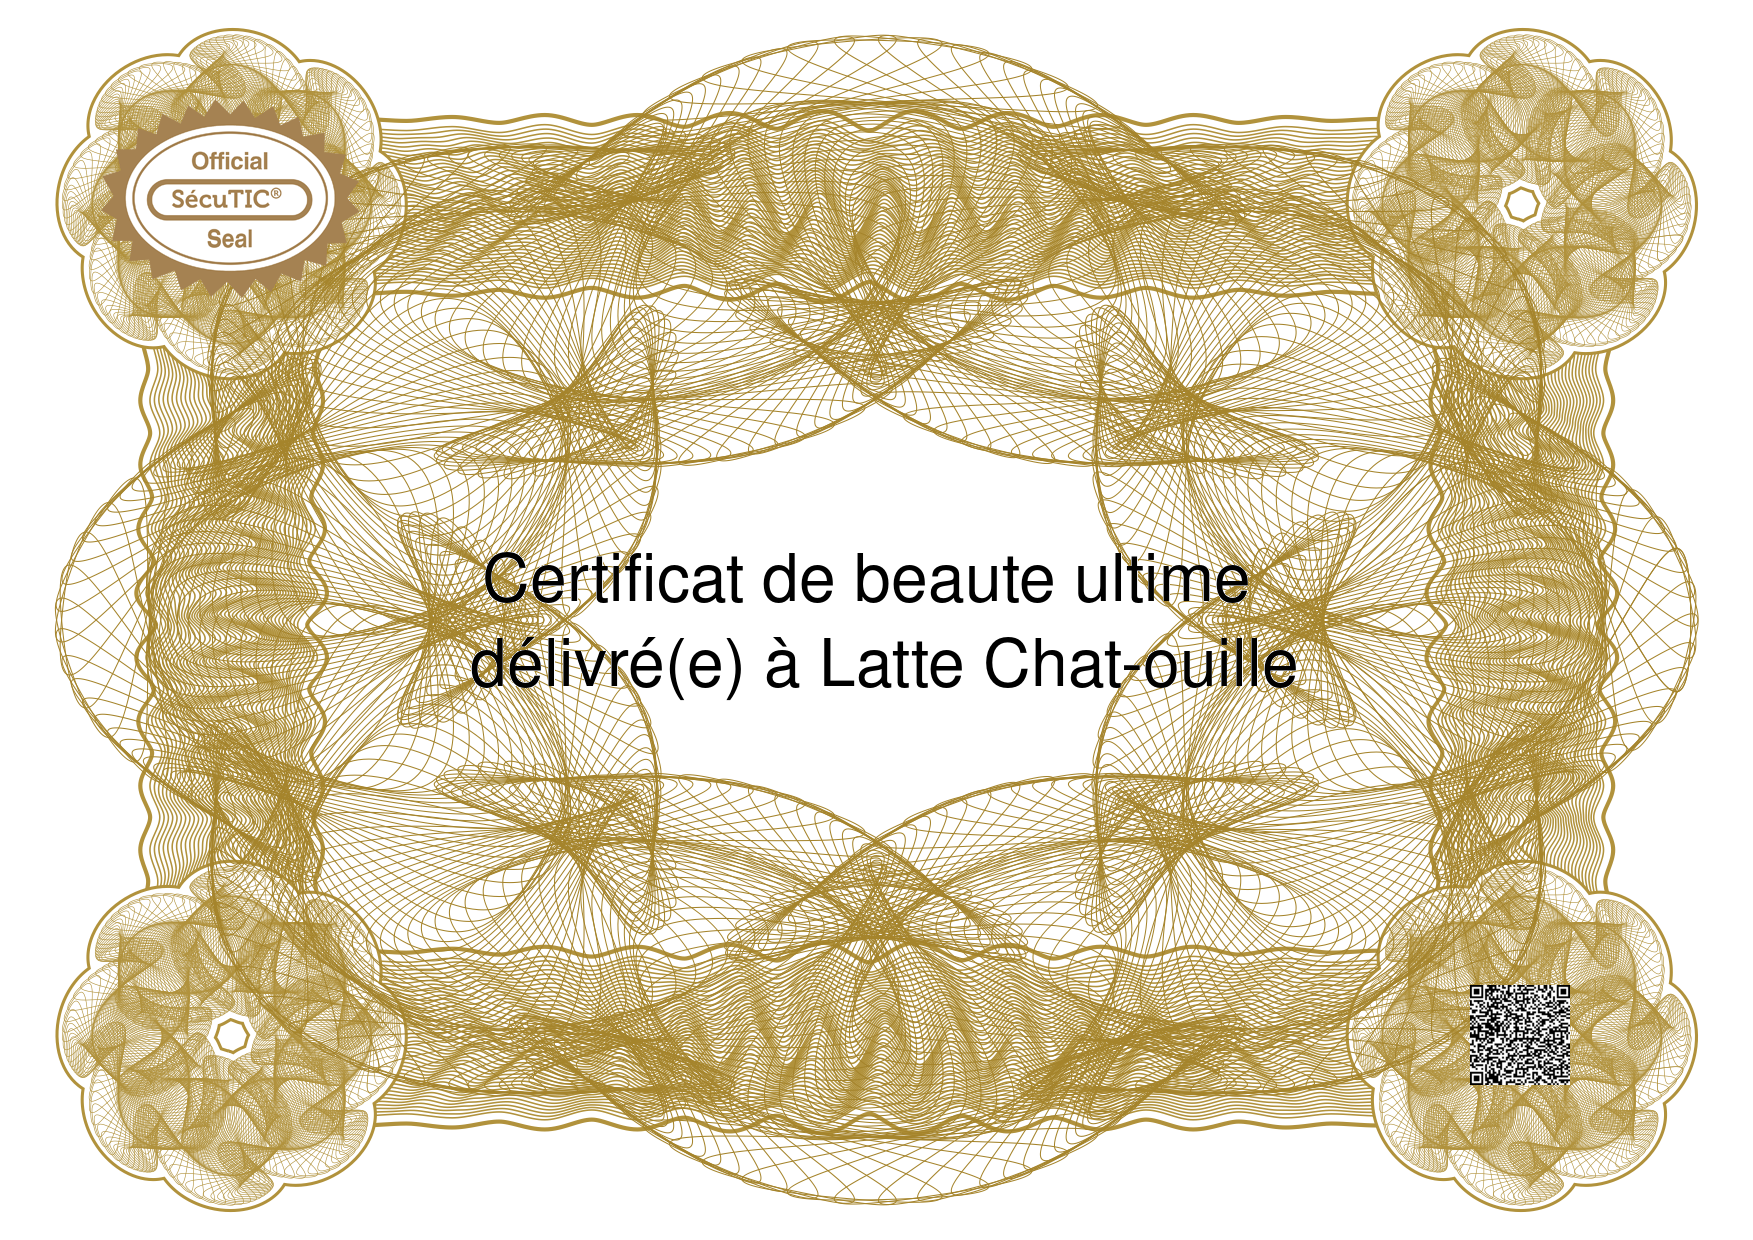
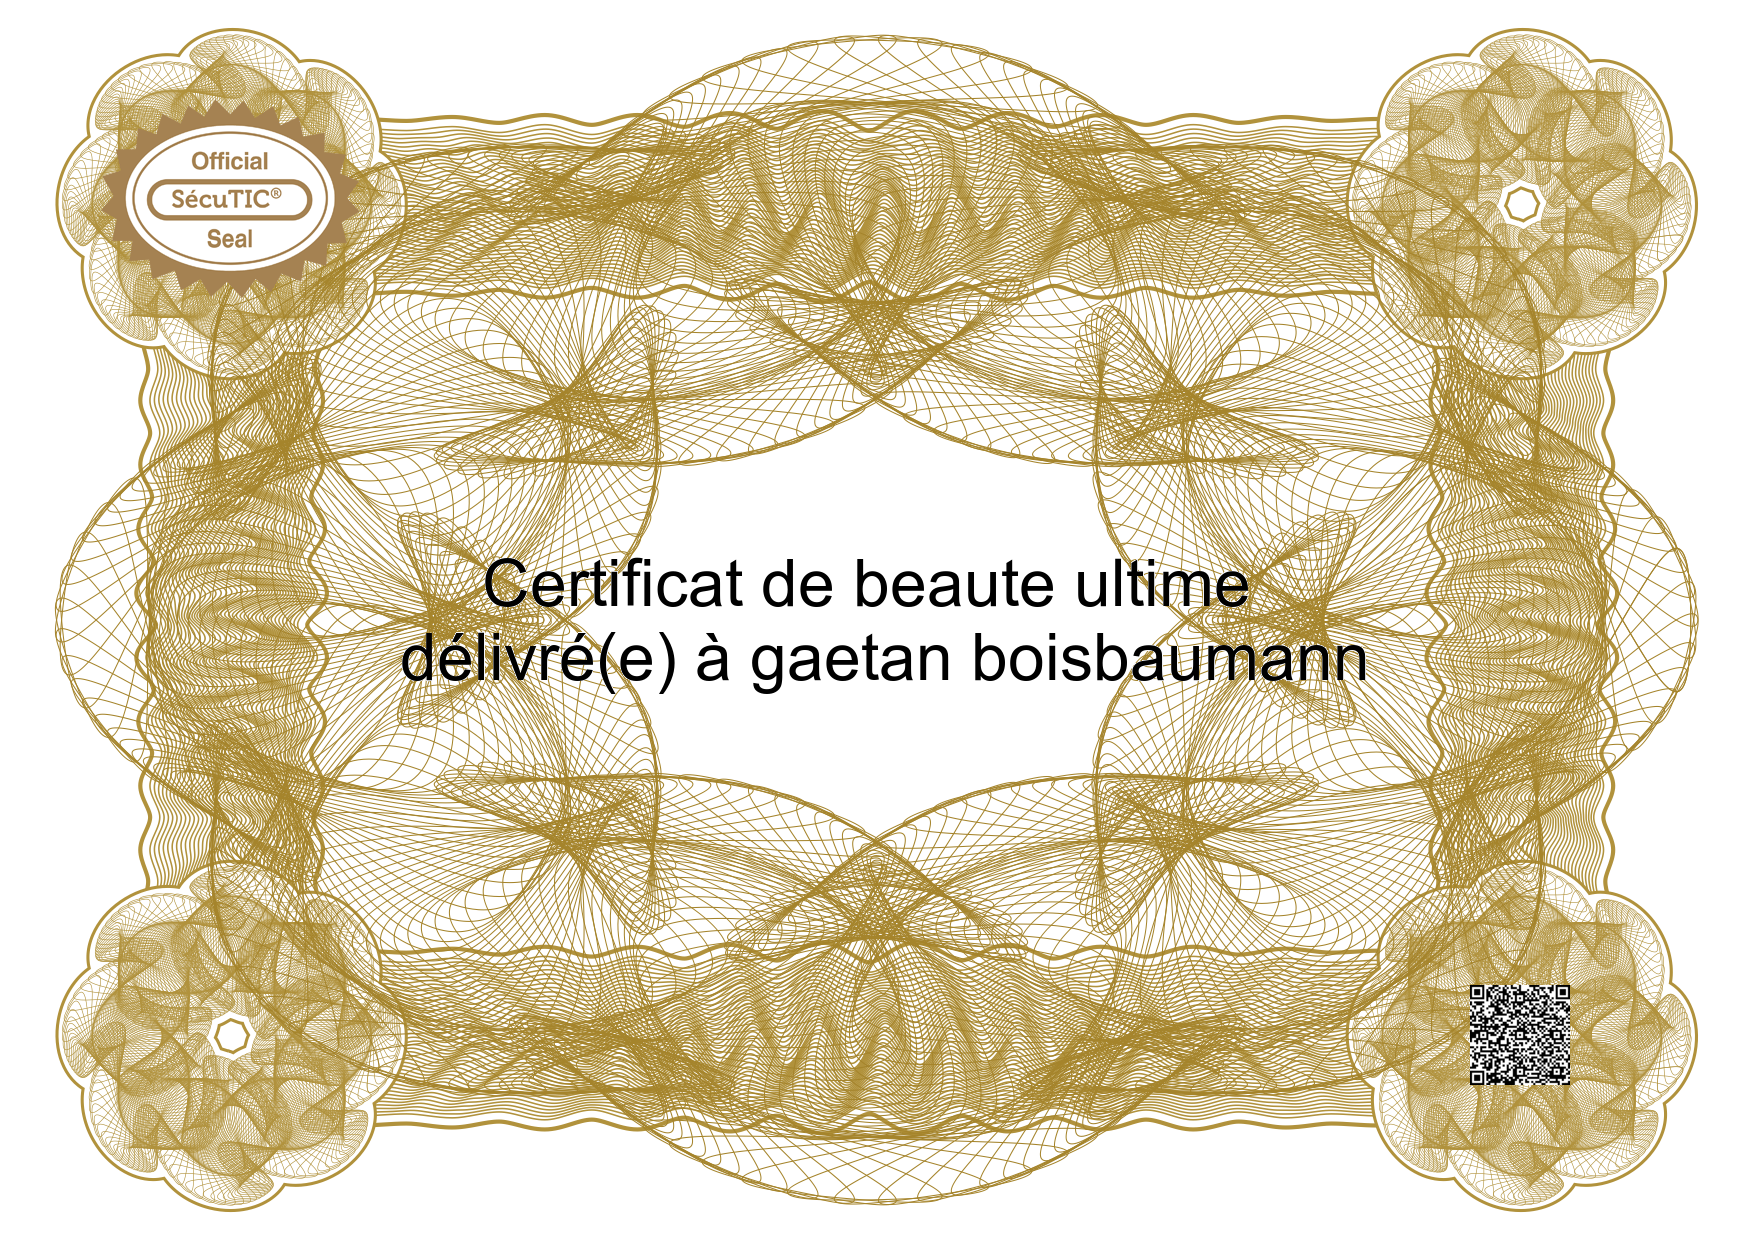
Fix verification certificat for mac

Changed region(s): [[0.2156, 0.429, 0.8009, 0.5823], [0.8317, 0.7968, 0.8933, 0.8887]]

diff --git a/src/serveur_applicatif.py b/src/serveur_applicatif.py
@@ -40,7 +40,8 @@ class ServeurApplicatif:
 
         bloc = (etudiant.nom + etudiant.prenom + etudiant.certificat.intitule).zfill(64)
         self.signature(bloc)
-        self.creer_qrcode("./src/cles/bloc_hash.sig")
+        #self.creer_qrcode("./src/cles/bloc_hash.sig")
+        self.creer_qrcode("./src/cles/bloc_hash.hex")
 
         commande = subprocess.Popen(f'convert ./src/img/qrcode.png -resize 100x100 ./src/img/qrcode.png', shell=True,
                                     stdout=subprocess.PIPE)
@@ -55,7 +56,7 @@ class ServeurApplicatif:
             shell=True, stdout=subprocess.PIPE)
         (resultat, ignorer) = commande.communicate()
 
-        self.obtenir_timestamp("./src/img/attestation.png")
+        #self.obtenir_timestamp("./src/img/attestation.png")
         self.dissimulation_par_steganographie(bloc)
         print(etudiant)
 
@@ -68,15 +69,15 @@ class ServeurApplicatif:
         with open(chemin_signature, "r") as fichier:
             signature = fichier.read()
 
-        data = signature
-        print(f"Signature: {signature}")
+        data = signature.replace("\n", "")
+        print(f"Signature: {signature} ({chemin_signature}) ::: {data}")
 
         nom_fichier = "./src/img/qrcode.png"
         qr = qrcode.make(data)
         qr.save("./src/img/qrcode.png", scale=1)
 
         img2 = Image.open("./src/img/qrcode.png")
-        qrImage = img2.crop((40, 40, 570, 570))
+        qrImage = img2.crop((40, 40, 530, 530))
         qrImage.save("./src/img/qrcode.png", scale=1)
         #print(qrImage.size)
 
@@ -105,42 +106,38 @@ class ServeurApplicatif:
             #print("Bloc d'info:", bloc_info)
 
             signature_qrcode = self.extraire_qrcode_informations(chemin_image)
-            signature_hex = signature_qrcode.split("SHA2-256(stdin)=")[1].strip()
+            #signature_hex = signature_qrcode.split("SHA2-256(stdin)=")[1].strip()
 
             print("signature qr",signature_qrcode)
-            print("signa", signature_hex)
-            print("bloc info", bloc_info)
 
-            if len(signature_hex) % 2 == 1:
-                signature_hex = '0' + signature_hex
-
-            signature_binary = binascii.unhexlify(signature_hex)
-
-            print("sign bin", signature_binary)
-
-            temp_bloc_file = "./src/cert/temp_bloc.txt"
+            temp_bloc_file = "./src/cert/temp_bloc.hex"
             with open(temp_bloc_file, "w") as f:
-                f.write(bloc_info)
-
-            temp_sig_file = "./src/cert/temp_sig.bin"
-            with open(temp_sig_file, "wb") as f:
-                f.write(signature_binary)
+                f.write(signature_qrcode)
+            
+            cmd = subprocess.Popen(
+                f"xxd -r -p {temp_bloc_file} > ./src/cert/signature_bis.bin",
+                shell=True,
+                stdout=subprocess.PIPE,
+                stderr=subprocess.PIPE
+            )
+            (resultat, erreur) = cmd.communicate()
 
             # on verifie la signature avec openssl
             cmd = subprocess.Popen(
-                f"openssl dgst -hex -sha256 -verify {cle_publique} -signature {temp_sig_file} {temp_bloc_file}",
+                f"echo -n {bloc_info} | openssl dgst -sha256 -verify {cle_publique} -signature ./src/cert/signature_bis.bin",
                 shell=True,
                 stdout=subprocess.PIPE,
                 stderr=subprocess.PIPE
             )
             (resultat, erreur) = cmd.communicate()
             print("Erreur:", erreur)
+            
 
             #if os.path.exists(temp_bloc_file):
              #   os.remove(temp_bloc_file)
             #if os.path.exists(temp_sig_file):
              #   os.remove(temp_sig_file)
-
+            """
             # Verification du timestamp
             with open("./src/cert/certFreeTSA/timestampFromStegano.tsq", "wb") as f:
                 f.write(timestamp_data)
@@ -158,14 +155,14 @@ class ServeurApplicatif:
                 stdout=subprocess.PIPE
             )
             (timestamp_resultat, _) = cmd.communicate()
-
+            """
             signature_valide = "Verified OK" in resultat.decode()
-            timestamp_valide = "Verification: OK" in timestamp_resultat.decode()
+            #timestamp_valide = "Verification: OK" in timestamp_resultat.decode()
 
             print("Signature Valide ?", signature_valide, ":", resultat.decode())
-            print("Timestamp Valide ?", timestamp_valide, ":", timestamp_resultat.decode())
+            #print("Timestamp Valide ?", timestamp_valide, ":", timestamp_resultat.decode())
 
-            return signature_valide and timestamp_valide
+            return signature_valide #and timestamp_valide
 
         except Exception as e:
             print(f"Erreur lors de la vérification de l'attestation: {str(e)}")
@@ -222,7 +219,12 @@ class ServeurApplicatif:
         # Signature du bloc
         print("Bloc:", bloc)
         commande = subprocess.Popen(
-            f"echo -n {bloc} | openssl dgst -hex -sha256 -sign ./src/cles/ecc25519_cle_privee_signature.pem -out ./src/cles/bloc_hash.sig",
+            f"echo -n {bloc} | openssl dgst -sha256 -sign ./src/cles/ecc25519_cle_privee_signature.pem -out ./src/cles/bloc_hash.sig",
+            shell=True, stdout=subprocess.PIPE)
+        (resultat, ignorer) = commande.communicate()
+
+        commande = subprocess.Popen(
+            f"xxd -p ./src/cles/bloc_hash.sig > ./src/cles/bloc_hash.hex",
             shell=True, stdout=subprocess.PIPE)
         (resultat, ignorer) = commande.communicate()
 
@@ -258,7 +260,7 @@ if __name__ == "__main__":
     #etu = Etudiant("Chat-ouille", "Latte", Certificat("certificat de beauté ultime"))
     print(len("certificat de beauté ultime"))
     
-    etu : Etudiant= Etudiant("Chat-ouille", "Latte", Certificat("Certificat de beaute ultime"))
+    etu : Etudiant= Etudiant("Chatouille", "Latte", Certificat("Certificat de beaute ultime"))
     # Taille fichier .tsq: 91 octets
     # signature="chatouille"
     stegano: Steganographie = Steganographie()

diff --git a/src/serveur_frontal.py b/src/serveur_frontal.py
@@ -95,7 +95,7 @@ class ServeurFrontal:
         etudiant_actuel: Etudiant = Etudiant(nom_etudiant, prenom_etudiant, Certificat(contenu_intitulé_certification))
 
         # Le SSO ne fonctionne plus depuis le 2FA (Top !!)
-        """
+        
         # Vérification de l'étudiant avec le SSO de l'université
         cookies: list = self.contacter_sso_universite(contenu_email, contenu_mot_de_passe)
         if cookies:
@@ -107,7 +107,7 @@ class ServeurFrontal:
             return "ok!"
         
         return "Mot de passe ou nom de l'utilisateur incorrecte"
-        """
+        
         self.serveur_applicatif.creation_certificat(etudiant_actuel)
 
     def extraire_intitule_du_bloc(self, bloc_info):
